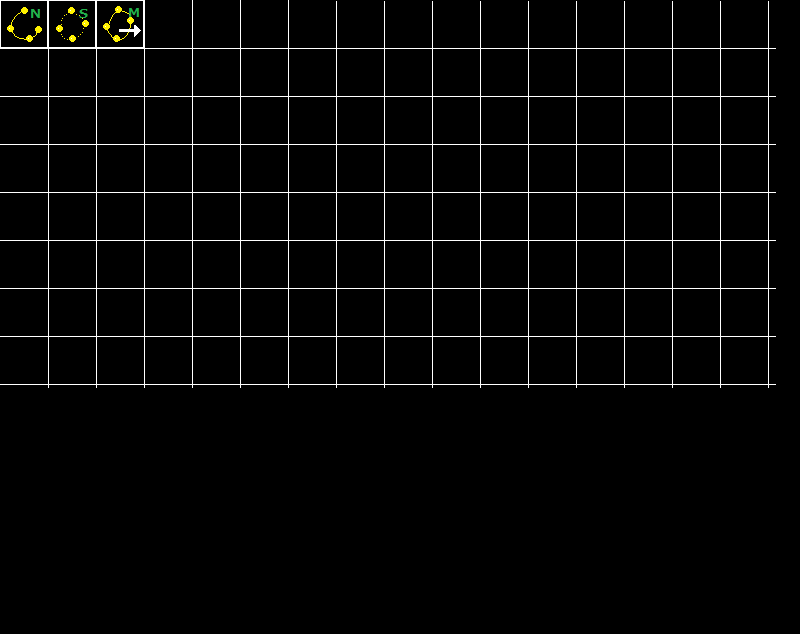
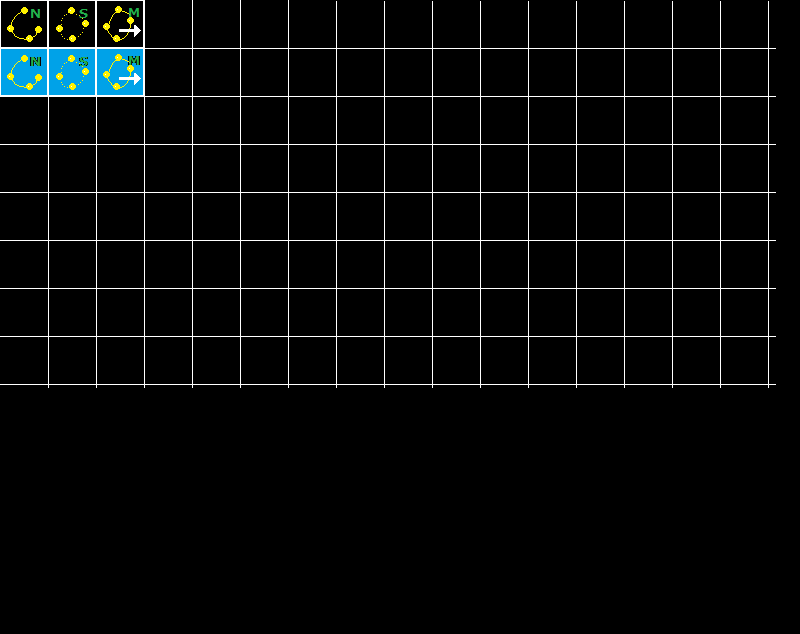
ボタン表示実験

Changed region(s): [[0.0, 0.0599, 0.1875, 0.1498]]

diff --git a/ex_board_editor1/cmdButtons.js b/ex_board_editor1/cmdButtons.js
@@ -1,7 +1,22 @@
 
-const NEW = "New";
-const SELECT = "Select";
-const MOVE = "Move";
+// btnId
+const NEW = 1;
+const SELECT = 2;
+const MOVE = 3;
+
+// ボタンId --> ボタン名（スプライトの名前にも使われる）
+const getButtonName = (btnId) => {
+    switch (btnId) {
+        case NEW:
+            return "New";
+        case SELECT:
+            return "Select";
+        case MOVE:
+            return "Move";
+        default:
+            return "";
+    }
+}
 
 class CmdButtons {
     constructor() {
@@ -12,31 +27,107 @@ class CmdButtons {
         this._sprs = {};
 
         // New Button
-        let sprNew = new PIXI.Sprite(PIXI.Texture.from(NEW));
-        sprNew.visible = true;
-        sprNew.x = 100;
-        sprNew.y = 10;
-        container.addChild(sprNew);
+        let sprNewN = new PIXI.Sprite(PIXI.Texture.from("New_N"));
+        sprNewN.visible = true;
+        sprNewN.x = 100;
+        sprNewN.y = 10;
+        container.addChild(sprNewN);
+
+        let sprNewP = new PIXI.Sprite(PIXI.Texture.from("New_P"));
+        sprNewP.visible = false;
+        sprNewP.x = 100;
+        sprNewP.y = 10;
+        container.addChild(sprNewP);
 
         // Select Button
-        let sprSelect = new PIXI.Sprite(PIXI.Texture.from(SELECT));
-        sprSelect.visible = true;
-        sprSelect.x = 200;
-        sprSelect.y = 10;
-        container.addChild(sprSelect);
+        let sprSelectN = new PIXI.Sprite(PIXI.Texture.from("Select_N"));
+        sprSelectN.visible = true;
+        sprSelectN.x = 200;
+        sprSelectN.y = 10;
+        container.addChild(sprSelectN);
+
+        let sprSelectP = new PIXI.Sprite(PIXI.Texture.from("Select_P"));
+        sprSelectP.visible = false;
+        sprSelectP.x = 200;
+        sprSelectP.y = 10;
+        container.addChild(sprSelectP);
 
         // Move Button
-        let sprMove = new PIXI.Sprite(PIXI.Texture.from(MOVE));
-        sprMove.visible = true;
-        sprMove.x = 300;
-        sprMove.y = 10;
-        container.addChild(sprMove);
+        let sprMoveN = new PIXI.Sprite(PIXI.Texture.from("Move_N"));
+        sprMoveN.visible = true;
+        sprMoveN.x = 300;
+        sprMoveN.y = 10;
+        container.addChild(sprMoveN);
 
-        this._sprs = {
-            NEW: sprNew,
-            SELECT: sprSelect,
-            MOVE: sprMove
+        let sprMoveP = new PIXI.Sprite(PIXI.Texture.from("Move_P"));
+        sprMoveP.visible = false;
+        sprMoveP.x = 300;
+        sprMoveP.y = 10;
+        container.addChild(sprMoveP);
+
+        this._sprs[getButtonName(NEW)] = {
+            id: NEW,
+            sprN: sprNewN,
+            sprP: sprNewP
         };
+        this._sprs[getButtonName(SELECT)] = {
+            id: SELECT,
+            sprN: sprSelectN,
+            sprP: sprSelectP
+        };
+        this._sprs[getButtonName(MOVE)] = {
+            id: MOVE,
+            sprN: sprMoveN,
+            sprP: sprMoveP
+        };
+    }
+
+    // @param p {i} ヒットテスト対象
+    //
+    // @return ボタンID
+    // 何もヒットしなかった場合は0が返る
+    hitTest(p) {
+        console.log(`(x, y)=(${p.x}, ${p.y})`);
+        for (let key of Object.keys(this._sprs)) {
+            let e = this._sprs[key];
+            if ((p.x > e.sprN.x) && (p.x < (e.sprN.x + e.sprN.width)) &&
+                (p.y > e.sprN.y) && (p.y < (e.sprN.y + e.sprN.height))) {
+                    return e.id;
+                }
+        }
+        return 0;
+    }
+
+    // ボタンを押した/離した
+    //
+    // @return 押したボタンの状態(true=押している, false=押していない)
+    press(btnId, bPress) {
+        let btnName = getButtonName(btnId);
+        if (btnName.length > 0) {
+            if (bPress) {
+                // 押した状態にする
+                this._sprs[btnName].sprN.visible = false;
+                this._sprs[btnName].sprP.visible = true;
+            } else {
+                // 離した状態にする
+                this._sprs[btnName].sprN.visible = true;
+                this._sprs[btnName].sprP.visible = false;
+            }
+        }
+    }
+
+    // ボタンが押されているかを返す
+    isPressed(btnId) {
+        let btnName = getButtonName(btnId);
+        if (btnName.length > 0) {
+            if (this._sprs[btnName].sprP.visible === true) {
+                // 押している
+                return true;
+            } else {
+                // 押されていない
+                return false;
+            }
+        }
     }
 }
 

diff --git a/ex_board_editor1/mainView.js b/ex_board_editor1/mainView.js
@@ -7,6 +7,7 @@
 const PIXI = require('pixi.js');
 const $ = require('jquery');
 const { CmdButtons } = require('./cmdButtons');
+const { MainPanel } = require('./mainPanel');
 
 let g_w = 0;
 let g_h = 0;
@@ -26,6 +27,9 @@ app.stage.interactive = true;
 
 const loader = PIXI.Loader.shared;
 
+let contMainPanel = new PIXI.Container();   // メイン描画エリア用コンテナ
+let mainPanel = new MainPanel();
+let contCmdPanel = new PIXI.Container();    // コマンドパネル用コンテナ
 let cmdButtons = new CmdButtons();
 
 // ロード時とリサイズ時の両方でイベントを受け取る
@@ -39,11 +43,11 @@ $(window).on('load', () => {
     const loader = PIXI.Loader.shared;
     loader.add('images/characters.json');
     loader.load((loader, resources) => {
-
-        let container = new PIXI.Container();
-        app.stage.addChild(container);
+        app.stage.addChild(contMainPanel);
+        app.stage.addChild(contCmdPanel);
     
-        cmdButtons.initSprite(PIXI, container);
+        mainPanel.initSprite(PIXI, contMainPanel);
+        cmdButtons.initSprite(PIXI, contCmdPanel);
         // 操作説明
         // new Text()
         //     .initSprite(PIXI, app.stage)
@@ -54,6 +58,7 @@ $(window).on('load', () => {
     
         app.ticker.add((delta) => {
             // 画面更新
+            mainPanel.update();
         });
     });
 });
@@ -86,6 +91,13 @@ $(window).on('mousedown', e => {
             x: e.clientX,
             y: e.clientY
         };
+
+        let id = cmdButtons.hitTest(mousePressPos);
+        if (id > 0) {
+            let pressed = cmdButtons.isPressed(id);
+            console.log(`id=${id}, pressed=${pressed}`);
+            cmdButtons.press(id, !pressed); // 反転させる
+        }
     }
 });
 
@@ -107,18 +119,22 @@ $(window).on('keydown', e => {
         }
         case 37:    // left
         {
+            contCmdPanel.visible = false;
             break;
         }
         case 39:    // right
         {
+            contCmdPanel.visible = true;
             break;
         }
         case 38:    // up
         {
+            contMainPanel.visible = true;
             break;
         }
         case 40:    // down
         {
+            contMainPanel.visible = false;
             break;
         }
     }
